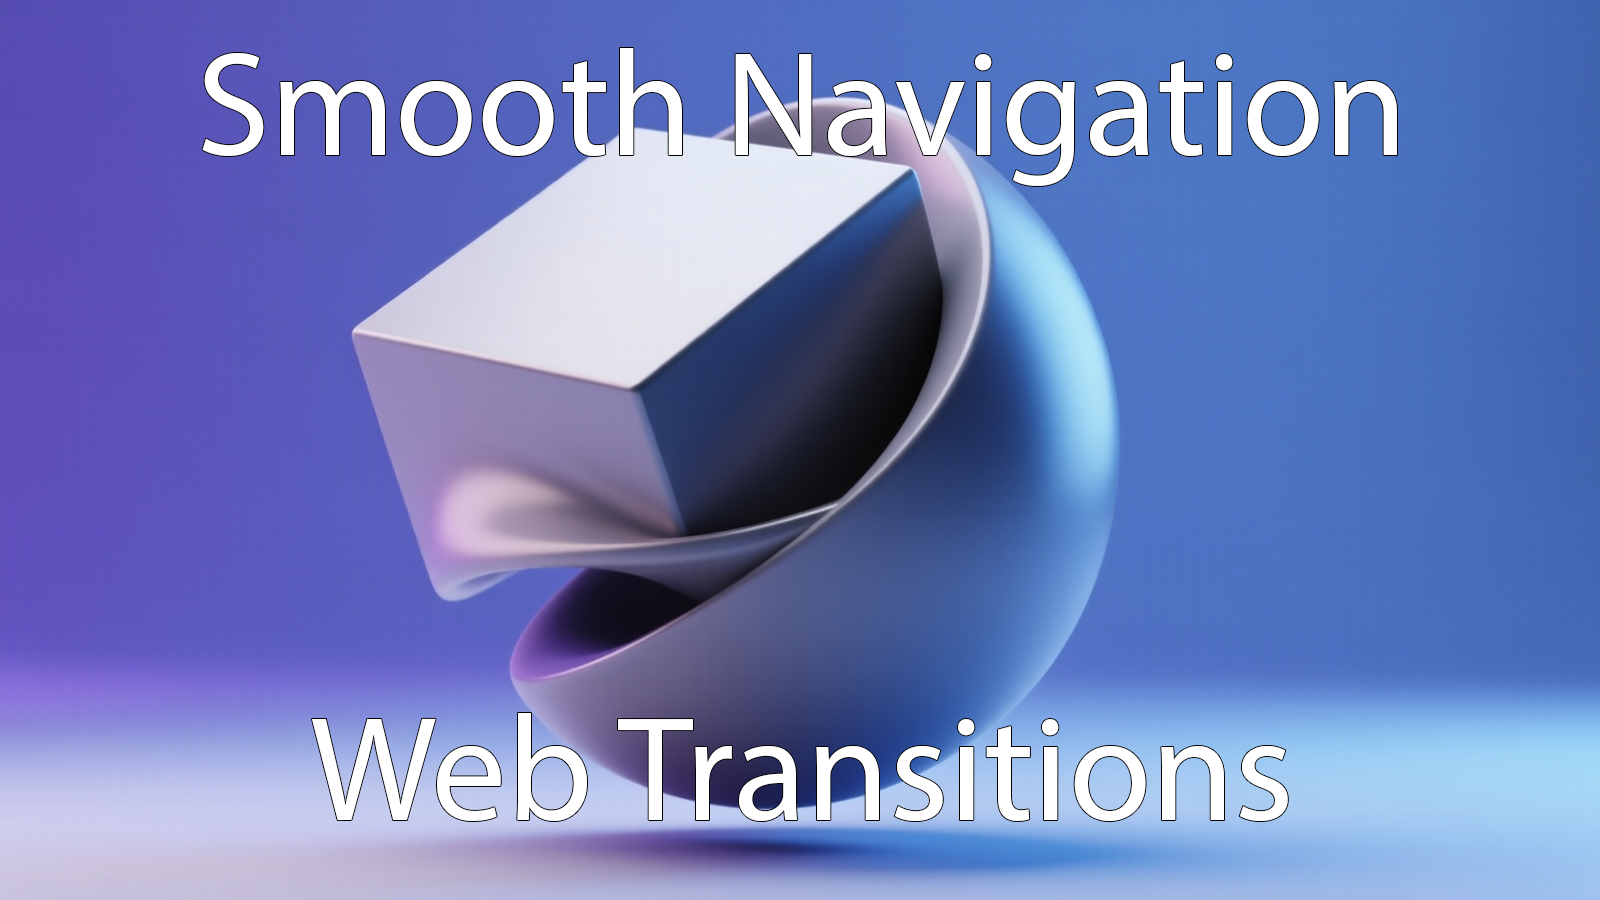
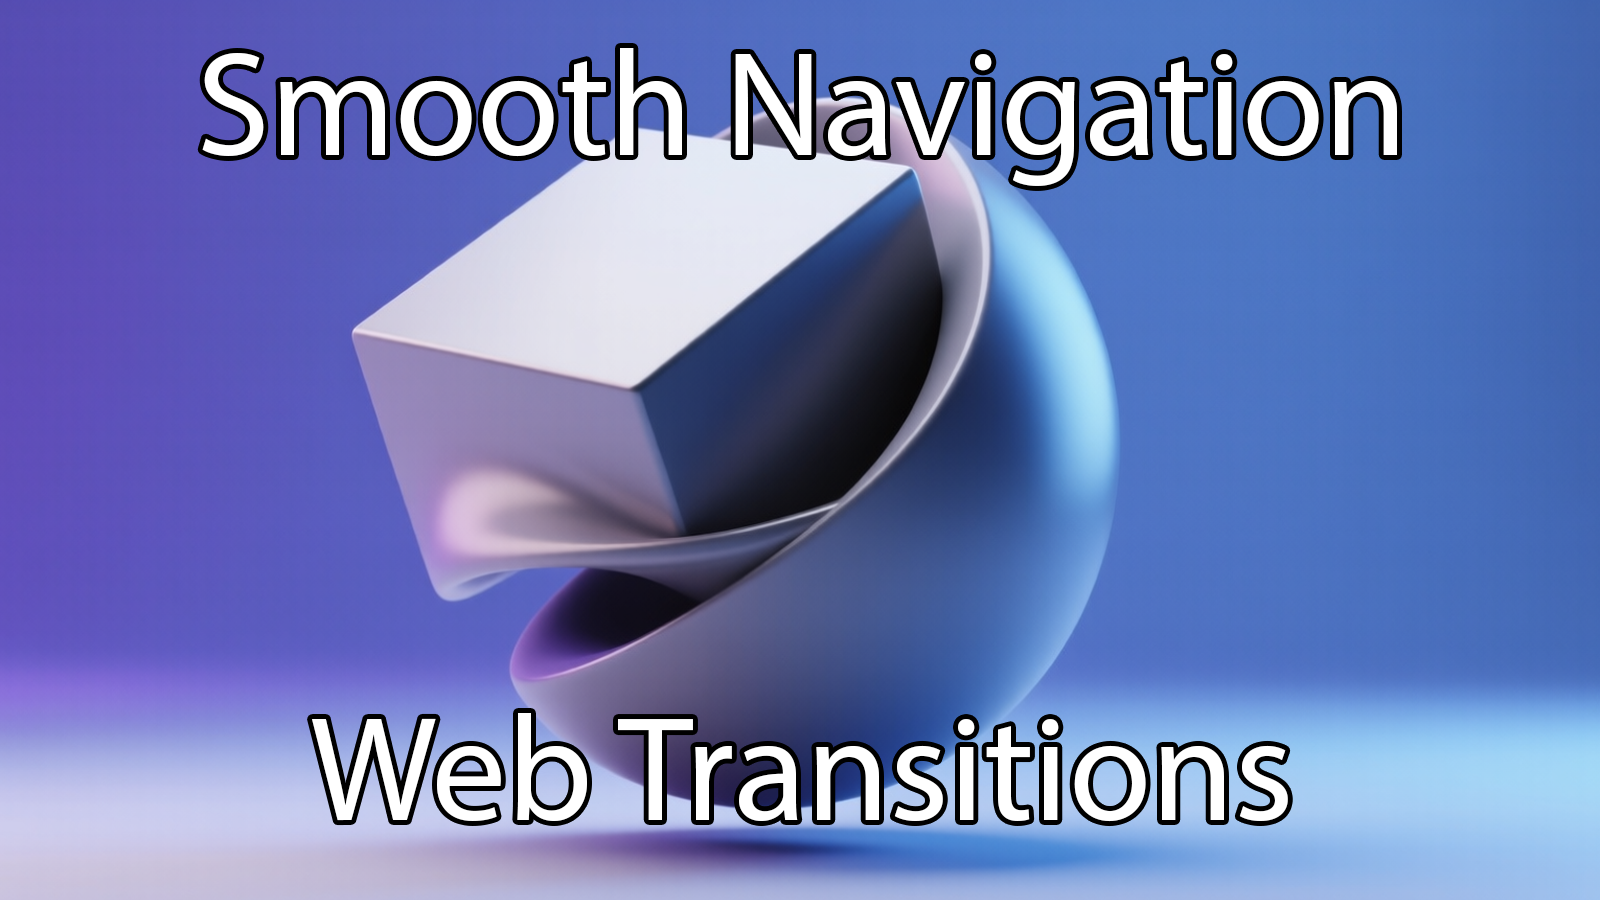
Add blogpost showcase in home page

Changed region(s): [[0.125, 0.0311, 0.875, 0.2178], [0.1875, 0.7778, 0.8125, 0.9333]]

diff --git a/apps/hugo-site/themes/mytheme/assets/scss/components/home.scss b/apps/hugo-site/themes/mytheme/assets/scss/components/home.scss
@@ -69,3 +69,141 @@
 
   &:hover { text-decoration: underline; }
 }
+
+// ── Latest Posts feed ─────────────────────────────────────────────────────────
+
+.latest-posts {
+  list-style: none;
+  padding: 0;
+  margin: 0;
+}
+
+.latest-post {
+  border-bottom: 1px solid var(--border-color);
+
+  &:last-child { border-bottom: none; }
+}
+
+.latest-post__link {
+  display: grid;
+  grid-template-columns: 1.75rem 3.5rem 1fr auto;
+  align-items: center;
+  gap: 1rem;
+  padding: 0.85rem 0.5rem 0.85rem 0.75rem;
+  text-decoration: none;
+  color: inherit;
+  position: relative;
+  border-radius: 6px;
+  transition: background var(--transition-speed);
+
+  &::before {
+    content: '';
+    position: absolute;
+    left: 0;
+    top: 50%;
+    transform: translateY(-50%) scaleY(0);
+    width: 3px;
+    height: 55%;
+    background: var(--accent-color);
+    border-radius: 0 2px 2px 0;
+    transition: transform 0.22s ease;
+    transform-origin: center;
+  }
+
+  &:hover {
+    background: color-mix(in srgb, var(--accent-color) 5%, transparent);
+    text-decoration: none;
+
+    &::before { transform: translateY(-50%) scaleY(1); }
+
+    .latest-post__thumb img { transform: scale(1.1); }
+
+    .latest-post__title { color: var(--accent-color); }
+  }
+}
+
+.latest-post__num {
+  font-size: 0.7rem;
+  font-weight: 900;
+  letter-spacing: 0.04em;
+  color: var(--accent-color);
+  opacity: 0.55;
+  font-variant-numeric: tabular-nums;
+  line-height: 1;
+  user-select: none;
+}
+
+.latest-post__thumb {
+  width: 3.5rem;
+  height: 3.5rem;
+  border-radius: 6px;
+  overflow: hidden;
+  flex-shrink: 0;
+  background: var(--card-bg);
+
+  img {
+    width: 100%;
+    height: 100%;
+    object-fit: cover;
+    display: block;
+    transition: transform 0.35s ease;
+  }
+
+  &--fallback {
+    background: linear-gradient(
+      135deg,
+      var(--theme-color) 0%,
+      color-mix(in srgb, var(--theme-color) 55%, var(--accent-color)) 100%
+    );
+  }
+}
+
+.latest-post__info {
+  display: flex;
+  flex-direction: column;
+  gap: 0.2rem;
+  min-width: 0;
+}
+
+.latest-post__title {
+  font-size: 0.88rem;
+  font-weight: 700;
+  color: var(--heading-color);
+  line-height: 1.35;
+  transition: color var(--transition-speed);
+  white-space: nowrap;
+  overflow: hidden;
+  text-overflow: ellipsis;
+}
+
+.latest-post__desc {
+  font-size: 0.76rem;
+  color: var(--muted-color);
+  line-height: 1.4;
+  white-space: nowrap;
+  overflow: hidden;
+  text-overflow: ellipsis;
+}
+
+.latest-post__badge {
+  font-size: 0.6rem;
+  font-weight: 900;
+  letter-spacing: 0.12em;
+  text-transform: uppercase;
+  color: var(--accent-color);
+  border: 1.5px solid color-mix(in srgb, var(--accent-color) 60%, transparent);
+  border-radius: 3px;
+  padding: 0.15em 0.4em;
+  flex-shrink: 0;
+  opacity: 0.85;
+  align-self: center;
+
+  .latest-post--new & {
+    animation: badge-pulse 3s ease-in-out infinite;
+  }
+}
+
+@keyframes badge-pulse {
+  0%, 100% { opacity: 0.85; }
+  50%       { opacity: 0.4; }
+}

diff --git a/apps/hugo-site/themes/mytheme/layouts/index.html b/apps/hugo-site/themes/mytheme/layouts/index.html
@@ -6,6 +6,42 @@
   <div class="home-intro__body">{{ .Content }}</div>
 </section>
 
+{{/* ── Latest Posts ─────────────────────────────────────────────────────────── */}}
+{{ $latestPosts := first 3 (where (sort site.RegularPages "Date" "desc") "Section" "posts") }}
+{{ with $latestPosts }}
+<section class="home-section home-section--latest">
+  <header class="home-section__header">
+    <h2 class="home-section__title">Latest Posts</h2>
+    <a class="home-section__all" href="/posts/">All posts <span aria-hidden="true">&rarr;</span></a>
+  </header>
+  <ol class="latest-posts">
+    {{ range $i, $p := . }}
+    {{ $cover := $p.Resources.GetMatch "cover.*" }}
+    {{ $desc := or $p.Params.caption $p.Description }}
+    <li class="latest-post{{ if eq $i 0 }} latest-post--new{{ end }}">
+      <a class="latest-post__link" href="{{ $p.RelPermalink }}">
+        <span class="latest-post__num" aria-hidden="true">{{ printf "%02d" (add $i 1) }}</span>
+        <div class="latest-post__thumb{{ if not $cover }} latest-post__thumb--fallback{{ end }}" aria-hidden="true">
+          {{ with $cover }}
+          <img src="{{ .RelPermalink }}" alt="" loading="lazy" decoding="async">
+          {{ end }}
+        </div>
+        <div class="latest-post__info">
+          <span class="latest-post__title">{{ $p.LinkTitle }}</span>
+          {{ with $desc }}
+          <span class="latest-post__desc">{{ . }}</span>
+          {{ end }}
+        </div>
+        {{ if eq $i 0 }}
+        <span class="latest-post__badge" aria-label="New post">NEW</span>
+        {{ end }}
+      </a>
+    </li>
+    {{ end }}
+  </ol>
+</section>
+{{ end }}
+
 {{/* ── Featured Games ──────────────────────────────────────────────────────── */}}
 {{ $featuredGames := where (where site.RegularPages "Section" "games") "Params.frontpage" true }}
 {{ with $featuredGames }}
